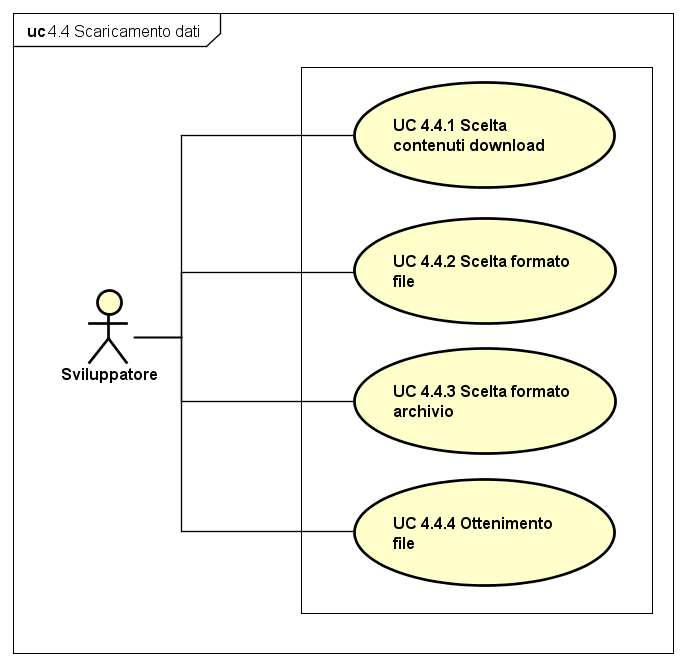
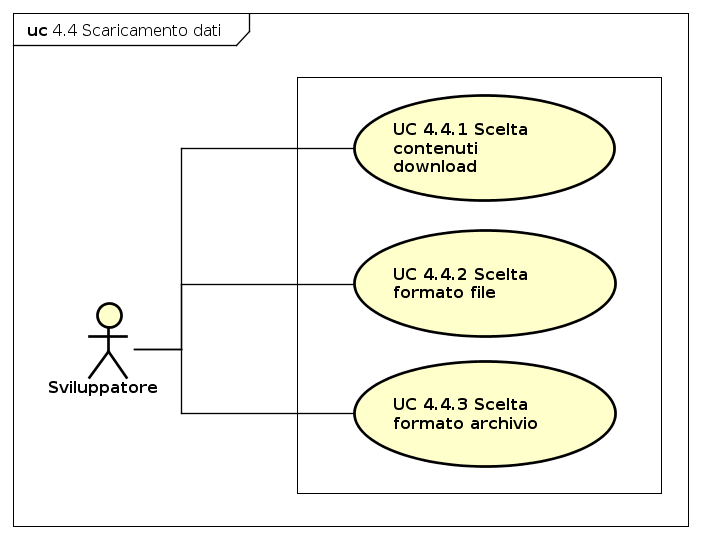
Correzioni RR

diff --git a/RR/Analisi_dei_requisiti/sez/sviluppatori.tex b/RR/Analisi_dei_requisiti/sez/sviluppatori.tex
@@ -19,11 +19,6 @@
 \includegraphics[width=17cm, height=10cm]{img/UC420.png} 
 \caption{Caso d'uso UC 4.2}\label{fig:420}
 \end{figure}
-\begin{figure}[H]
-\centering
-\includegraphics[width=17cm, height=10cm]{img/UC426.png} 
-\caption{Caso d'uso UC 4.2.6 relativo alla rimozione dei filtri}\label{fig:426}
-\end{figure}
 \begin{itemize}
 \item[•]\textbf{Attori}: Sviluppatore;
 \item[•]\textbf{Descrizione}: lo sviluppatore applica dei filtri ai dati, ottenendo solo quelli d'interesse;
@@ -131,6 +126,11 @@
 
 \subsubsection{UC 4.2.6 - Rimozione filtro}
 \begin{itemize}
+\begin{figure}[H]
+\centering
+\includegraphics[width=17cm, height=10cm]{img/UC426.png} 
+\caption{Caso d'uso UC 4.2.6 relativo alla rimozione dei filtri}\label{fig:426}
+\end{figure}
 \item[•]\textbf{Attori}: Sviluppatore;
 \item[•]\textbf{Descrizione}: lo sviluppatore cancella il valore del filtro selezionato.
 \item[•]\textbf{Precondizione}: il filtro contiene un valore ed è applicato un filtraggio ai dati rispettando le condizioni di tale filtro;
@@ -210,14 +210,6 @@
 \item[•]\textbf{Flusso degli eventi}: lo sviluppatore seleziona dall'elenco prestabilito un'opzione che determina il formato dell'archivio che contiene i file relativi ai dati precedentemente scelti.
 \end{itemize}
 
-\subsubsection{UC 4.4.4 - Ottenimento file}
-\begin{itemize}
-\item[•]\textbf{Attori}: Sviluppatore;
-\item[•]\textbf{Descrizione}: lo sviluppatore riceve un archivio dati contenente i dati, salvati in file aventi estensione scelta dal programmatore;
-\item[•]\textbf{Precondizione}: i contenuti di interesse, il formato del file e il formato dell'archivio sono stati scelti;
-\item[•]\textbf{Postcondizione}: lo sviluppatore ottiene il file richiesto e si procede al download di questo;
-\item[•]\textbf{Flusso degli eventi}: lo sviluppatore seleziona dall'elenco prestabilito un'opzione che determina il formato dell'archivio che contiene i file relativi ai dati precedentemente scelti.
-\end{itemize}
 
 \subsubsection{UC 4.5 - Creazione modello}
 \begin{figure}[H]

diff --git a/RR/Analisi_dei_requisiti/sez/Insegnante.tex b/RR/Analisi_dei_requisiti/sez/Insegnante.tex
@@ -27,7 +27,7 @@
 
 \begin{figure}[H]
 	\centering
-	\includegraphics[width=17cm]{img/UC22SISTEMA.png} 
+	\includegraphics[width=17cm]{img/UC22.png} 
 	\caption{Caso d'uso UC 2.2;}
 \end{figure}
 
